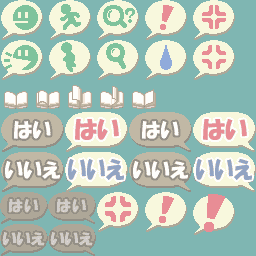
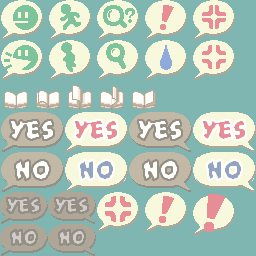
Upload Initial Translated Graphics

diff --git a/scripts/tasks/extract_graphics.py b/scripts/tasks/extract_graphics.py
@@ -30,6 +30,10 @@ GRAPHICS_FILES = {
     "ST_D_0": "DAT/FRAME/EVENT/ST_D_0.TM2",
     "ST_D_1": "DAT/FRAME/EVENT/ST_D_1.TM2",
     "ST_SUB": "DAT/FRAME/MENU/ST_SUB.TM2",
+    "TL_001": "DAT/FRAME/TITLE/TL_001.TM2",
+    "TL_002": "DAT/FRAME/TITLE/TL_002.TM2",
+    "TL_003": "DAT/FRAME/TITLE/TL_003.TM2",
+    "TL_004": "DAT/FRAME/TITLE/TL_004.TM2",
     "TL_005": "DAT/FRAME/TITLE/TL_005.TM2",
     "TL_006": "DAT/FRAME/TITLE/TL_006.TM2",
 }
